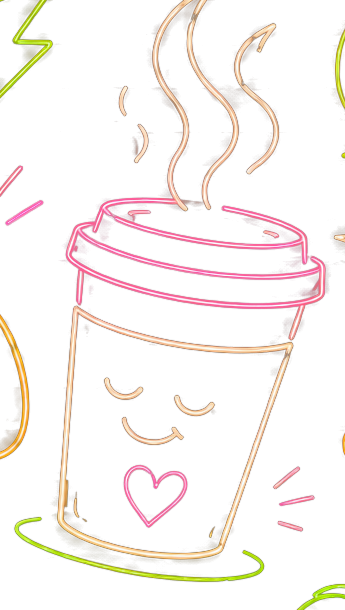
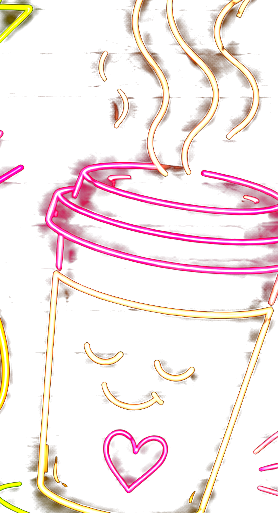
Clean up hero doodles

diff --git a/frontend/styles.css b/frontend/styles.css
@@ -185,7 +185,7 @@ button:focus-visible {
 
 .hero {
   display: grid;
-  grid-template-columns: minmax(0, 0.9fr) minmax(18rem, 1.1fr);
+  grid-template-columns: minmax(0, 0.95fr) minmax(18rem, 1.05fr);
   align-items: center;
   gap: clamp(1.5rem, 4vw, 4rem);
   min-height: min(48rem, calc(100vh - 8rem));
@@ -253,7 +253,7 @@ h3 {
 */
 .hero-doodles {
   position: relative;
-  min-height: clamp(24rem, 44vw, 36rem);
+  min-height: clamp(22rem, 36vw, 31rem);
   isolation: isolate;
 }
 
@@ -263,73 +263,61 @@ h3 {
   inset: 10% 4% 8% 2%;
   border-radius: 50%;
   background:
-    radial-gradient(circle at 52% 45%, rgba(255, 63, 159, 0.22), transparent 34%),
-    radial-gradient(circle at 76% 72%, rgba(169, 255, 40, 0.2), transparent 28%);
+    radial-gradient(circle at 52% 50%, rgba(255, 63, 159, 0.14), transparent 36%),
+    radial-gradient(circle at 76% 72%, rgba(169, 255, 40, 0.12), transparent 30%);
   filter: blur(24px);
-  opacity: 0.7;
+  opacity: 0.55;
 }
 
 .doodle {
   position: absolute;
   width: var(--doodle-width);
   max-width: none;
-  mix-blend-mode: screen;
-  filter: drop-shadow(0 0 16px rgba(255, 63, 159, 0.22));
+  opacity: 0.98;
+  filter:
+    saturate(1.2)
+    contrast(1.08)
+    drop-shadow(0 0 8px rgba(255, 63, 159, 0.28))
+    drop-shadow(0 0 14px rgba(169, 255, 40, 0.14));
 }
 
 .doodle-taco {
-  --doodle-width: clamp(15rem, 25vw, 24rem);
-  left: 18%;
-  top: 26%;
-  transform: rotate(-5deg);
+  --doodle-width: clamp(18rem, 25vw, 25rem);
+  left: 17%;
+  top: 28%;
+  transform: rotate(-4deg);
   z-index: 3;
 }
 
 .doodle-coffee {
-  --doodle-width: clamp(10rem, 17vw, 16rem);
+  --doodle-width: clamp(8rem, 12vw, 12rem);
   right: 14%;
-  top: 6%;
+  top: 10%;
   transform: rotate(4deg);
   z-index: 2;
 }
 
 .doodle-salsa {
-  --doodle-width: clamp(9rem, 15vw, 14rem);
-  right: 3%;
-  bottom: 4%;
-  transform: rotate(-4deg);
+  --doodle-width: clamp(8rem, 12vw, 12rem);
+  right: 8%;
+  bottom: 7%;
+  transform: rotate(-3deg);
   z-index: 2;
 }
 
-.doodle-pepper {
-  --doodle-width: clamp(8rem, 14vw, 13rem);
-  right: 25%;
-  bottom: 0;
-  transform: rotate(8deg);
-  z-index: 1;
-}
-
 .doodle-bubble {
-  --doodle-width: clamp(9rem, 16vw, 15rem);
-  left: 0;
-  top: 4%;
-  transform: rotate(-7deg);
-  z-index: 1;
-}
-
-.doodle-cheese {
-  --doodle-width: clamp(8rem, 13vw, 12rem);
-  left: 2%;
-  bottom: 3%;
-  transform: rotate(6deg);
+  --doodle-width: clamp(8rem, 12vw, 12rem);
+  left: 4%;
+  top: 10%;
+  transform: rotate(-6deg);
   z-index: 1;
 }
 
 .doodle-crown {
-  --doodle-width: clamp(7rem, 12vw, 11rem);
-  left: 39%;
-  top: 0;
-  transform: rotate(5deg);
+  --doodle-width: clamp(6rem, 8vw, 8.5rem);
+  left: 36%;
+  top: 6%;
+  transform: rotate(4deg);
   z-index: 1;
 }
 
@@ -633,50 +621,26 @@ h3 {
   }
 
   .hero-doodles {
-    min-height: 18rem;
+    min-height: 15rem;
     overflow: hidden;
   }
 
   .doodle-taco {
-    --doodle-width: 14rem;
-    left: 27%;
+    --doodle-width: 13rem;
+    left: 30%;
     top: 24%;
   }
 
   .doodle-coffee {
-    --doodle-width: 8rem;
-    right: 4%;
-    top: 2%;
-  }
-
-  .doodle-salsa {
-    --doodle-width: 8rem;
-    right: 0;
-    bottom: 2%;
-  }
-
-  .doodle-pepper {
-    --doodle-width: 7rem;
-    right: 31%;
-    bottom: -4%;
-  }
-
-  .doodle-bubble {
-    --doodle-width: 8rem;
-    left: -3%;
-    top: 4%;
-  }
-
-  .doodle-cheese {
-    --doodle-width: 7rem;
-    left: 0;
-    bottom: 0;
+    --doodle-width: 6.4rem;
+    right: 6%;
+    top: 8%;
   }
 
   .doodle-crown {
-    --doodle-width: 6rem;
-    left: 38%;
-    top: 0;
+    --doodle-width: 5rem;
+    left: 12%;
+    top: 7%;
   }
 
   .menu-grid {

diff --git a/frontend/index.html b/frontend/index.html
@@ -84,10 +84,6 @@
         -->
         <img class="doodle doodle-taco" src="images/doodle-taco.png" alt="">
         <img class="doodle doodle-coffee" src="images/doodle-coffee.png" alt="">
-        <img class="doodle doodle-salsa" src="images/doodle-extra-salsa.png" alt="">
-        <img class="doodle doodle-pepper" src="images/doodle-pepper.png" alt="">
-        <img class="doodle doodle-bubble" src="images/doodle-tacos-first.png" alt="">
-        <img class="doodle doodle-cheese" src="images/doodle-cheese.png" alt="">
         <img class="doodle doodle-crown" src="images/doodle-crown.png" alt="">
       </div>
     </section>
